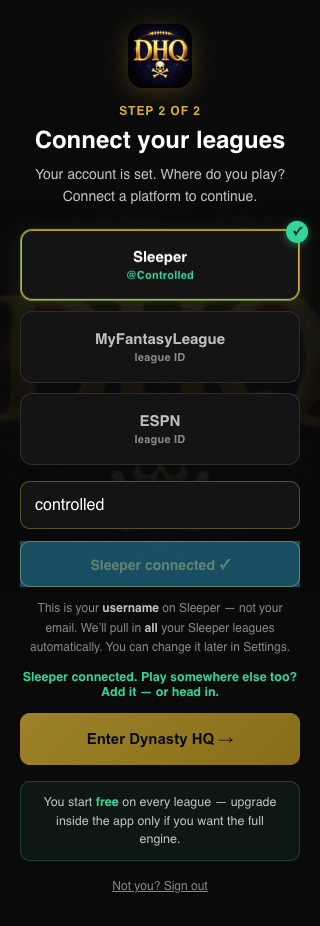
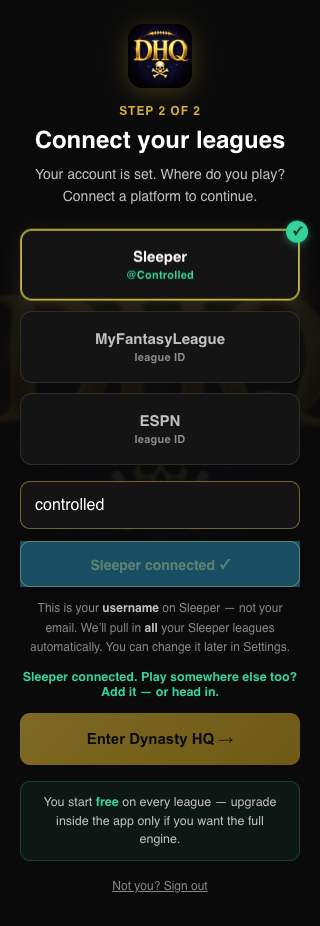
Record integrated public account and onboarding verification

Changed region(s): [[0.0625, 0.7559, 0.9375, 0.8467], [0.125, 0.2419, 0.875, 0.2721], [0.0625, 0.2419, 0.0938, 0.2721]]

diff --git a/reports/public-readiness/public-session-connection-independent-review.md b/reports/public-readiness/public-session-connection-independent-review.md
@@ -1,0 +1,23 @@
+# Independent public session and connection review — 2026-09-20
+
+Read-only source review and isolated local tests of actual public source candidates. No real sign-in, provider mutation, private league request, payment or release was performed in this review. Root owns integration and deployment. Browser screenshots were redirected to `/tmp/public-connect-independent-{320,390}-sep20.png`, preserving the reviewed branch.
+
+## Session lifecycle `012a897`
+
+Reviewed `landing.html` and actual-script lifecycle regression against the public `fac5d81` base. Reproduced a material mismatch: the head redirect accepted token owner A with cached user B, while the body repair preferred B. The final head checks owner/expiry, and repair prefers the token's owner and rejects a different returned account. Exact standalone reproduction passes after the fix.
+
+Independently ran all 26 lifecycle groups: late OAuth/refresh/provider navigation cannot overwrite the replacement account; old analytics completion cannot reset a newer profile; failed/expired/revoked repair is truthful; authoritative user metadata is preserved; forced sign-out captures the old provider token and avoids asynchronous SDK cleanup of a new account. The final provider storage-key listener supersedes an old attempt when another tab selects a provider account, without treating same-document SDK writes as a cross-tab account change.
+
+The final ESPN/fresh-account delta was independently checked: guest and signed-in routing agree on the ESPN pointer, `isNew` handoff cannot be diverted by a stale guest flag, and fresh context cleanup removes ESPN pointers/cookies in local and session storage plus the old MFL API key. No unresolved blocker found within this bounded delta. Broad legacy profile ownership and real provider callback/refresh journeys remain separate.
+
+## Connection `3d2826e`
+
+Reviewed `connect-sleeper.html`, the index guest-routing parity change, VM tests and guarded browser fixture. Found and resolved two material issues before freeze: sign-out now enters `landing.html?signout` so a lingering Supabase session cannot immediately sign the user back in; both connection entry and post-await saves validate token expiry and token/cache owner consistency.
+
+Independently reran all 18 actual-script groups, covering provider validation and retries, duplicate submission, pending Enter, changed account/legacy binding, saved local data and failed sign-out rollback/retry. Independently ran the actual page in Chrome at 320×740, 390×844, 844×390 and 390×430. All four journeys passed: real 20-second timeout on the narrow phone, retained input and retry, stale A response leaving B unchanged, private ESPN credentials only in session storage, no horizontal overflow, automatically visible Enter action, save and reopen. Screenshot inspection confirms the connected platform stays visible and Enter is reachable.
+
+All nonlocal requests are intercepted with explicit controlled provider responses or aborted; the index destination is a fixture. This verifies the connection page and route intent, not actual ESPN/MFL hydration or full authenticated application readiness. Those limitations are correctly stated in the candidate report. No unresolved material finding in the reviewed connection-page batch.
+
+## Build dependency follow-up
+
+Read-only review of the isolated `warroom-readiness-public-dev-deps` lockfile change: only `brace-expansion` 5.0.7 → 5.0.12 and its matching integrity/Node engine requirement changed. The declared minimatch range and package.json remain unchanged. Actual CI/deploy both run Node 20, supported by the new dependency. Independently ran `npm audit` and observed zero reported vulnerabilities. The two upstream advisories confirm that the old version is affected and that the selected version is beyond both patched floors: [GHSA-mh99-v99m-4gvg](https://github.com/advisories/GHSA-mh99-v99m-4gvg), [GHSA-rgw5-rvv9-x895](https://github.com/advisories/GHSA-rgw5-rvv9-x895). No material finding in this scoped dev dependency update; author separately provided clean-install, Node 20 test/build evidence.

diff --git a/reports/public-readiness/public-league-onboarding-20260920.md b/reports/public-readiness/public-league-onboarding-20260920.md
@@ -15,7 +15,7 @@ Sleeper identity requires a valid provider ID and username; MFL/ESPN league and 
 - Eighteen actual production-script groups and four touch-emulated Chrome configurations pass at320×740,390×844,844×390, and390×430. Evidence: evidence/public-connect-combined-sep20.log. Tests cover the actual twenty-second timeout, failure/retry, duplicate Enter, expired/owner-mismatched sessions, stale account and legacy writes, storage rollback, failed sign-out retry, concurrent providers, exact IDs, private proxy request/session-only secrets, reachable current action, stored choices and reopening.
 - Browser requests use isolated provider responses and a controlled destination page. External analytics and unrelated writes are blocked. The page scripts and real touch/scroll interactions execute in Chrome; provider fixtures and the destination fixture do not prove a completed live league journey or real private ESPN cookie exchange.
 - The existing public npm test suite and preview build pass using actual shared dedbb161. Final candidate build and independent follow-up disposition are recorded separately; no C2 shared engine was substituted.
-- Original independent review found provider sign-out and unhealthy-session gaps. Both were fixed with exact regression coverage before freeze. Final independent clearance remains pending at this report checkpoint.
+- Original independent review found provider sign-out and unhealthy-session gaps. Both were fixed with exact regression coverage before freeze. Final independent review cleared3d2826e and independently reran all18actual-script groups plus allfourphonebrowserjourneys; see public-session-connection-independent-review.md.
 
 ## Remaining work and release boundary
 

diff --git a/reports/public-readiness/public-integrated-candidate-20260920.md b/reports/public-readiness/public-integrated-candidate-20260920.md
@@ -1,0 +1,7 @@
+# Integrated public account and connection candidate
+
+Actual public Owner-Dashboard---V6 branch codex/public-auth-journey-20260920 now combines fac5d81 phone/password/reset repairs, independently reviewed OAuth012a897, connection3d2826e (integrated5ce7991), and dev dependencyb849cc4 (integrated8e13f1f). All product changes remain based on actual publicdb1701f with actual shareddedbb161. No C2 engine substitution or backend mutation occurred.
+
+Root installed from the integrated lockfile (audit0), ran the existing198checks, all26session lifecycle groups and6realbrowserracecases, all18connectiongroups and4phonebrowserjourneys, the original5phoneemail/resetjourneys, and the final70-scriptpreviewbuild. Every group passed; external provider writes in fixtures remain blocked. Detailed logs are evidence/public-integrated-*-sep20.log.
+
+Independent reviewer cleared each substantive source change and the dependency delta; root preserved both scripts when resolving package.json integration. Connection tests intentionally stop at a destination fixture. RealOAuth, emaildelivery, fullproviderhydration, broadlegacyaccountdataownership, physicaldevices and billing remain open. This is a validated proposal in publicPR1, not a deployed site or public-launch signoff.
